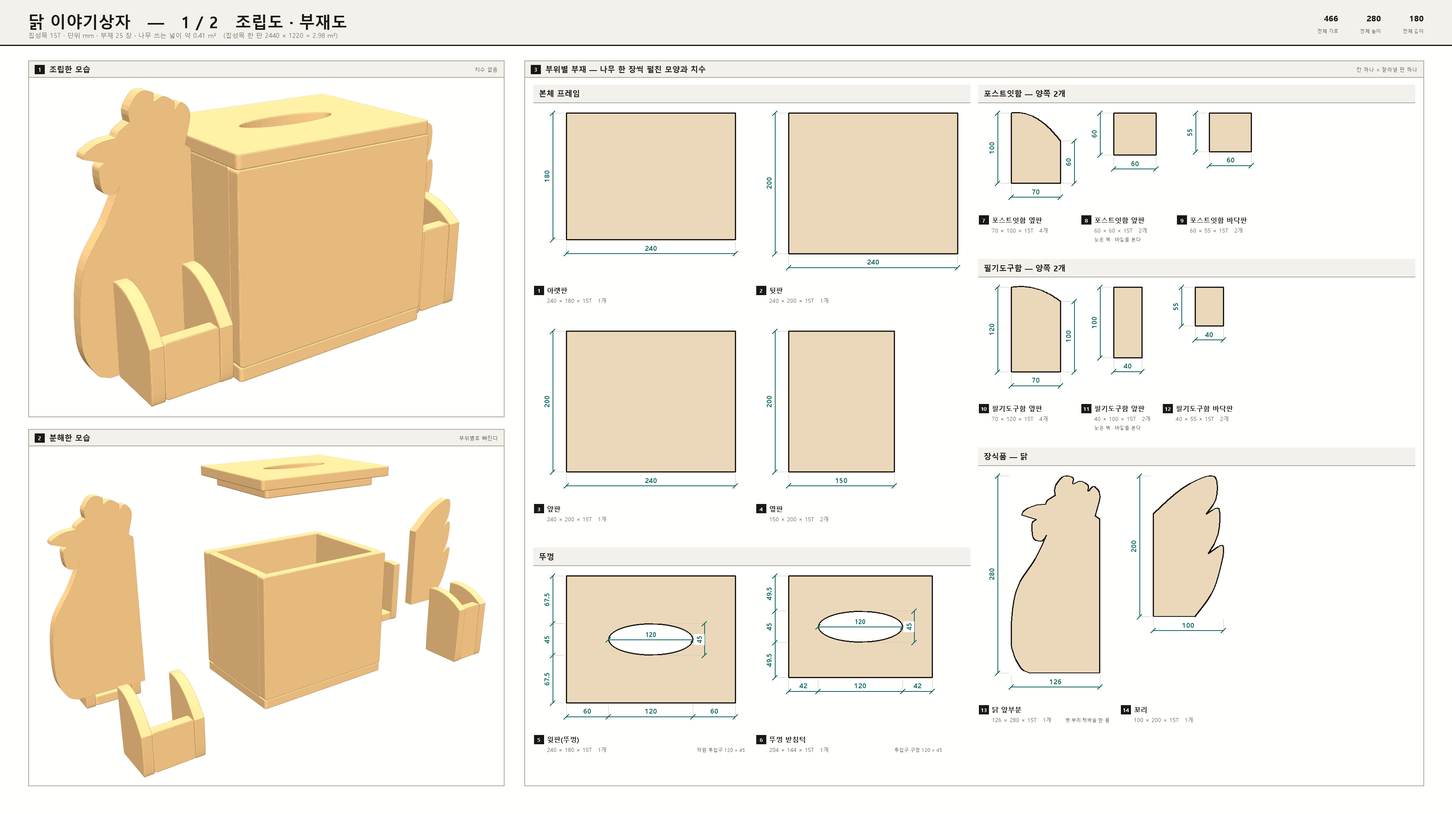
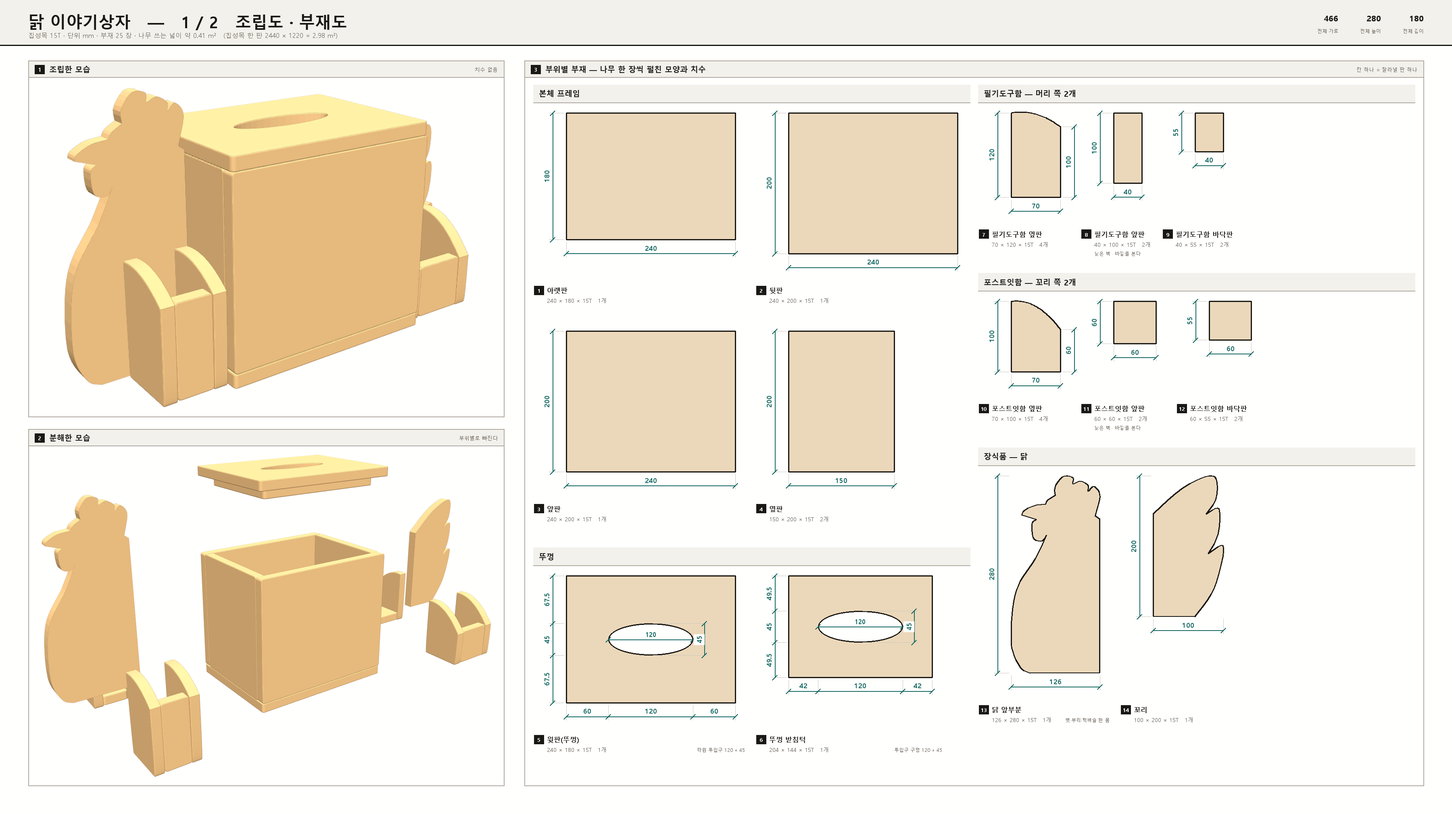
Add files via upload

diff --git a/도면보기.html b/도면보기.html
@@ -124,7 +124,7 @@ var SHEETS = [
   {k:"b1", t:"이야기상자 · 1장 조립도 · 부재도",  f:"도면_B_닭이야기상자.png",         tab:"이야기상자 1장"},
   {k:"b2", t:"이야기상자 · 2장 여섯 방향 치수도", f:"도면_B_닭이야기상자_6면치수.png", tab:"이야기상자 2장"}
 ];
-var DIM_DATA = {"a1":{"w":3600,"h":2398,"nums":[{"x":1716.0,"y":508.1,"r":0,"fs":17,"bw":40,"bh":24,"a":300.0,"b":0},{"x":1356.1,"y":384.0,"r":-90,"fs":17,"bw":27,"bh":38,"a":130.0,"b":-2},{"x":2472.0,"y":508.1,"r":0,"fs":17,"bw":40,"bh":24,"a":300.0,"b":0},{"x":2112.1,"y":384.0,"r":-90,"fs":17,"bw":27,"bh":38,"a":130.0,"b":-2},{"x":3020.0,"y":705.7,"r":0,"fs":17,"bw":40,"bh":24,"a":130.0,"b":-2},{"x":2868.1,"y":482.8,"r":-90,"fs":17,"bw":27,"bh":38,"a":225.0,"b":-2},{"x":1684.8,"y":1105.7,"r":0,"fs":17,"bw":40,"bh":24,"a":300.0,"b":-2},{"x":1356.1,"y":981.6,"r":-90,"fs":17,"bw":27,"bh":38,"a":130.0,"b":-2},{"x":2409.6,"y":1365.7,"r":0,"fs":17,"bw":40,"bh":24,"a":300.0,"b":0},{"x":2049.7,"y":1111.6,"r":-90,"fs":17,"bw":27,"bh":38,"a":225.0,"b":0},{"x":3165.6,"y":1144.1,"r":0,"fs":16,"bw":37,"bh":23,"a":300.0,"b":-2},{"x":2905.7,"y":1220.8,"r":-90,"fs":16,"bw":26,"bh":26,"a":112.5,"b":-1.5},{"x":3165.6,"y":925.7,"r":0,"fs":16,"bw":37,"bh":23,"a":300.0,"b":-2},{"x":2905.7,"y":1002.4,"r":-90,"fs":16,"bw":26,"bh":26,"a":112.5,"b":-1.5},{"x":2869.2,"y":1396.9,"r":0,"fs":17,"bw":30,"bh":24,"a":0.0,"b":1},{"x":3165.6,"y":1365.7,"r":0,"fs":17,"bw":40,"bh":24,"a":300.0,"b":-2},{"x":3462.0,"y":1396.9,"r":0,"fs":17,"bw":30,"bh":24,"a":0.0,"b":1},{"x":2802.3,"y":1330.0,"r":-90,"fs":17,"bw":27,"bh":28,"a":0.0,"b":1},{"x":2805.7,"y":1220.8,"r":-90,"fs":17,"bw":27,"bh":28,"a":112.5,"b":-1.5},{"x":2802.3,"y":1111.6,"r":-90,"fs":17,"bw":27,"bh":28,"a":0.0,"b":1.0},{"x":2805.7,"y":1002.4,"r":-90,"fs":17,"bw":27,"bh":28,"a":112.5,"b":-1.5},{"x":2802.3,"y":893.2,"r":-90,"fs":17,"bw":27,"bh":28,"a":0.0,"b":1.0},{"x":1680.6,"y":1802.5,"r":0,"fs":17,"bw":40,"bh":24,"a":296.0,"b":-2},{"x":1356.1,"y":1693.0,"r":-90,"fs":17,"bw":27,"bh":28,"a":108.5,"b":-1.5},{"x":2365.9,"y":1790.1,"r":0,"fs":17,"bw":40,"bh":24,"a":296.0,"b":-2},{"x":2041.3,"y":1686.8,"r":-90,"fs":17,"bw":27,"bh":28,"a":110.0,"b":-2},{"x":2857.8,"y":1771.3,"r":0,"fs":17,"bw":30,"bh":24,"a":110.0,"b":-2},{"x":2726.6,"y":1677.4,"r":-90,"fs":17,"bw":27,"bh":28,"a":108.5,"b":-2.5},{"x":1649.4,"y":2142.2,"r":0,"fs":17,"bw":40,"bh":24,"a":296.0,"b":-4},{"x":1356.1,"y":2048.3,"r":-90,"fs":17,"bw":27,"bh":28,"a":108.5,"b":-2.5},{"x":2089.3,"y":2027.8,"r":0,"fs":17,"bw":30,"bh":24,"a":60.0,"b":0},{"x":1975.5,"y":1991.1,"r":-90,"fs":17,"bw":27,"bh":28,"a":16.0,"b":0}],"texts":[{"x":70,"y":84,"fs":16,"an":"start","bg":"#F3F1EC","bw":775,"bh":24,"col":"ink2","dec":2,"tpl":"집성목 {T}T · 단위 mm · 부재 18 장 · 나무 쓰는 넓이 약 {0} m²   (집성목 한 판 2440 × 1220 = 2.98 m²)","v":[[0.542,-0.009]]},{"x":1356,"y":802,"fs":14,"an":"start","bw":156,"bh":21,"col":"ink2","tpl":"{0} × {1} × {T}T   1개","v":[[300.0,0],[130.0,-2]]},{"x":2112,"y":802,"fs":14,"an":"start","bw":156,"bh":21,"col":"ink2","tpl":"{0} × {1} × {T}T   1개","v":[[300.0,0],[130.0,-2]]},{"x":2868,"y":802,"fs":14,"an":"start","bw":156,"bh":21,"col":"ink2","tpl":"{0} × {1} × {T}T   2개","v":[[130.0,-2],[225.0,-2]]},{"x":1356,"y":1462,"fs":14,"an":"start","bw":156,"bh":21,"col":"ink2","tpl":"{0} × {1} × {T}T   1개","v":[[300.0,-2],[130.0,-2]]},{"x":2050,"y":1462,"fs":14,"an":"start","bw":156,"bh":21,"col":"ink2","tpl":"{0} × {1} × {T}T   1개","v":[[300.0,0],[225.0,0]]},{"x":2806,"y":1462,"fs":14,"an":"start","bw":156,"bh":21,"col":"ink2","tpl":"{0} × {1} × {T}T   1개","v":[[300.0,0],[225.0,0]]},{"x":1356,"y":1898,"fs":14,"an":"start","bw":148,"bh":21,"col":"ink2","tpl":"{0} × {1} × {T}T   2개","v":[[296.0,-2],[108.5,-1.5]]},{"x":2041,"y":1898,"fs":14,"an":"start","bw":148,"bh":21,"col":"ink2","tpl":"{0} × {1} × {T}T   2개","v":[[296.0,-2],[110.0,-2]]},{"x":2727,"y":1898,"fs":14,"an":"start","bw":140,"bh":21,"col":"ink2","tpl":"{0} × {1} × {T}T   4개","v":[[110.0,-2],[108.5,-2.5]]},{"x":1356,"y":2238,"fs":14,"an":"start","bw":148,"bh":21,"col":"ink2","tpl":"{0} × {1} × {T}T   2개","v":[[296.0,-4],[108.5,-2.5]]},{"x":1979,"y":2238,"fs":14,"an":"start","bw":140,"bh":21,"col":"ink2","tpl":"{0} × {1} × {T}T   1개","v":[[60.0,0],[16.0,0]]}]},"a2":{"w":3600,"h":2394,"nums":[{"x":770.8,"y":663.4,"r":0,"fs":18,"bw":40,"bh":26,"a":300.0,"b":-2.0},{"x":310.5,"y":808.0,"r":-90,"fs":18,"bw":28,"bh":28,"a":112.5,"b":-1.5},{"x":770.8,"y":290.5,"r":0,"fs":18,"bw":40,"bh":26,"a":300.0,"b":-2.0},{"x":310.5,"y":435.1,"r":-90,"fs":18,"bw":28,"bh":28,"a":112.5,"b":-1.5},{"x":264.6,"y":1055.5,"r":0,"fs":19,"bw":32,"bh":27,"a":0.0,"b":1.0},{"x":770.8,"y":1055.5,"r":0,"fs":19,"bw":43,"bh":27,"a":300.0,"b":-2.0},{"x":1276.9,"y":1055.5,"r":0,"fs":19,"bw":32,"bh":27,"a":0.0,"b":1.0},{"x":451.1,"y":1119.5,"r":0,"fs":19,"bw":43,"bh":27,"a":120.0,"b":0.0},{"x":770.8,"y":1119.5,"r":0,"fs":19,"bw":32,"bh":27,"a":60.0,"b":0.0},{"x":1090.4,"y":1119.5,"r":0,"fs":19,"bw":43,"bh":27,"a":120.0,"b":0.0},{"x":770.8,"y":1183.5,"r":0,"fs":19,"bw":43,"bh":27,"a":300.0,"b":0.0},{"x":172.4,"y":994.5,"r":-90,"fs":19,"bw":29,"bh":30,"a":0.0,"b":1.0},{"x":172.4,"y":808.0,"r":-90,"fs":19,"bw":29,"bh":30,"a":112.5,"b":-1.5},{"x":172.4,"y":621.6,"r":-90,"fs":19,"bw":29,"bh":30,"a":0.0,"b":1.0},{"x":172.4,"y":435.1,"r":-90,"fs":19,"bw":29,"bh":30,"a":112.5,"b":-1.5},{"x":172.4,"y":248.6,"r":-90,"fs":19,"bw":29,"bh":30,"a":0.0,"b":1.0},{"x":104.4,"y":621.6,"r":-90,"fs":19,"bw":29,"bh":41,"a":225.0,"b":0.0},{"x":1337.9,"y":928.8,"r":-90,"fs":19,"bw":29,"bh":30,"a":48.25,"b":0.25},{"x":1337.9,"y":808.0,"r":-90,"fs":19,"bw":29,"bh":30,"a":16.0,"b":0.0},{"x":1638.1,"y":1055.5,"r":0,"fs":19,"bw":32,"bh":27,"a":0.0,"b":1.0},{"x":1842.4,"y":1055.5,"r":0,"fs":19,"bw":43,"bh":27,"a":130.0,"b":-2.0},{"x":2046.6,"y":1055.5,"r":0,"fs":19,"bw":32,"bh":27,"a":0.0,"b":1.0},{"x":1842.4,"y":1119.5,"r":0,"fs":19,"bw":43,"bh":27,"a":130.0,"b":0.0},{"x":1869.0,"y":1183.5,"r":0,"fs":19,"bw":43,"bh":27,"a":130.0,"b":1.0},{"x":1545.9,"y":994.5,"r":-90,"fs":19,"bw":29,"bh":30,"a":0.0,"b":1.0},{"x":1545.9,"y":808.0,"r":-90,"fs":19,"bw":29,"bh":30,"a":112.5,"b":-1.5},{"x":1545.9,"y":621.6,"r":-90,"fs":19,"bw":29,"bh":30,"a":0.0,"b":1.0},{"x":1545.9,"y":435.1,"r":-90,"fs":19,"bw":29,"bh":30,"a":112.5,"b":-1.5},{"x":1545.9,"y":248.6,"r":-90,"fs":19,"bw":29,"bh":30,"a":0.0,"b":1.0},{"x":1477.9,"y":621.6,"r":-90,"fs":19,"bw":29,"bh":41,"a":225.0,"b":0.0},{"x":2160.9,"y":928.8,"r":-90,"fs":19,"bw":29,"bh":30,"a":48.25,"b":0.25},{"x":2160.9,"y":808.0,"r":-90,"fs":19,"bw":29,"bh":30,"a":16.0,"b":0.0},{"x":2647.6,"y":945.5,"r":0,"fs":19,"bw":43,"bh":27,"a":120.0,"b":0.0},{"x":2967.2,"y":945.5,"r":0,"fs":19,"bw":32,"bh":27,"a":60.0,"b":0.0},{"x":3286.9,"y":945.5,"r":0,"fs":19,"bw":43,"bh":27,"a":120.0,"b":0.0},{"x":2967.2,"y":1009.5,"r":0,"fs":19,"bw":43,"bh":27,"a":300.0,"b":0.0},{"x":2368.9,"y":422.7,"r":-90,"fs":19,"bw":29,"bh":30,"a":0.0,"b":1.0},{"x":2368.9,"y":626.9,"r":-90,"fs":19,"bw":29,"bh":41,"a":130.0,"b":-2.0},{"x":2368.9,"y":831.1,"r":-90,"fs":19,"bw":29,"bh":30,"a":0.0,"b":1.0},{"x":2300.9,"y":653.6,"r":-90,"fs":19,"bw":29,"bh":41,"a":130.0,"b":1.0},{"x":771.8,"y":2226.7,"r":0,"fs":19,"bw":43,"bh":27,"a":300.0,"b":0.0},{"x":173.4,"y":1792.7,"r":-90,"fs":19,"bw":29,"bh":41,"a":225.0,"b":0.0},{"x":2134.9,"y":2194.7,"r":0,"fs":19,"bw":32,"bh":27,"a":0.0,"b":1.0},{"x":1930.6,"y":2194.7,"r":0,"fs":19,"bw":43,"bh":27,"a":130.0,"b":-2.0},{"x":1726.4,"y":2194.7,"r":0,"fs":19,"bw":32,"bh":27,"a":0.0,"b":1.0},{"x":1904.0,"y":2258.7,"r":0,"fs":19,"bw":43,"bh":27,"a":130.0,"b":1.0},{"x":1580.9,"y":2133.6,"r":-90,"fs":19,"bw":29,"bh":30,"a":0.0,"b":1.0},{"x":1580.9,"y":1947.2,"r":-90,"fs":19,"bw":29,"bh":30,"a":112.5,"b":-1.5},{"x":1580.9,"y":1760.7,"r":-90,"fs":19,"bw":29,"bh":30,"a":0.0,"b":1.0},{"x":1580.9,"y":1574.2,"r":-90,"fs":19,"bw":29,"bh":30,"a":112.5,"b":-1.5},{"x":1580.9,"y":1387.8,"r":-90,"fs":19,"bw":29,"bh":30,"a":0.0,"b":1.0},{"x":1512.9,"y":1760.7,"r":-90,"fs":19,"bw":29,"bh":41,"a":225.0,"b":0.0},{"x":2967.2,"y":2084.6,"r":0,"fs":19,"bw":43,"bh":27,"a":300.0,"b":0.0},{"x":2368.9,"y":2023.6,"r":-90,"fs":19,"bw":29,"bh":30,"a":0.0,"b":1.0},{"x":2368.9,"y":1819.3,"r":-90,"fs":19,"bw":29,"bh":41,"a":130.0,"b":-2.0},{"x":2368.9,"y":1615.1,"r":-90,"fs":19,"bw":29,"bh":30,"a":0.0,"b":1.0},{"x":2300.9,"y":1819.3,"r":-90,"fs":19,"bw":29,"bh":41,"a":130.0,"b":0.0}],"texts":[]},"b1":{"w":3600,"h":2019,"nums":[{"x":1613.6,"y":614.5,"r":0,"fs":17,"bw":40,"bh":24,"a":240.0,"b":0},{"x":1356.1,"y":437.2,"r":-90,"fs":17,"bw":27,"bh":38,"a":180.0,"b":0},{"x":2164.9,"y":649.5,"r":0,"fs":17,"bw":40,"bh":24,"a":240.0,"b":0},{"x":1907.3,"y":454.7,"r":-90,"fs":17,"bw":27,"bh":38,"a":230.0,"b":-2},{"x":1613.6,"y":1190.9,"r":0,"fs":17,"bw":40,"bh":24,"a":240.0,"b":0},{"x":1356.1,"y":996.1,"r":-90,"fs":17,"bw":27,"bh":38,"a":230.0,"b":-2},{"x":2086.3,"y":1190.9,"r":0,"fs":17,"bw":40,"bh":24,"a":180.0,"b":-2},{"x":1907.3,"y":996.1,"r":-90,"fs":17,"bw":27,"bh":38,"a":230.0,"b":-2},{"x":1613.6,"y":1572.9,"r":0,"fs":16,"bw":37,"bh":23,"a":120.0,"b":0.0},{"x":1733.3,"y":1586.0,"r":-90,"fs":16,"bw":26,"bh":26,"a":45.0,"b":0.0},{"x":1456.4,"y":1763.3,"r":0,"fs":17,"bw":30,"bh":24,"a":60.0,"b":0.0},{"x":1613.6,"y":1763.3,"r":0,"fs":17,"bw":40,"bh":24,"a":120.0,"b":0.0},{"x":1770.9,"y":1763.3,"r":0,"fs":17,"bw":30,"bh":24,"a":60.0,"b":0.0},{"x":1356.1,"y":1684.3,"r":-90,"fs":17,"bw":27,"bh":42,"a":67.5,"b":0.0},{"x":1356.1,"y":1586.0,"r":-90,"fs":17,"bw":27,"bh":28,"a":45.0,"b":0.0},{"x":1356.1,"y":1487.8,"r":-90,"fs":17,"bw":27,"bh":42,"a":67.5,"b":0.0},{"x":2133.5,"y":1541.5,"r":0,"fs":16,"bw":37,"bh":23,"a":120.0,"b":0.0},{"x":2253.2,"y":1554.6,"r":-90,"fs":16,"bw":26,"bh":26,"a":45.0,"b":0.0},{"x":1992.0,"y":1700.4,"r":0,"fs":17,"bw":30,"bh":24,"a":57.0,"b":-1.0},{"x":2133.5,"y":1700.4,"r":0,"fs":17,"bw":40,"bh":24,"a":120.0,"b":0.0},{"x":2275.0,"y":1700.4,"r":0,"fs":17,"bw":30,"bh":24,"a":57.0,"b":-1.0},{"x":1907.3,"y":1637.1,"r":-90,"fs":17,"bw":27,"bh":42,"a":64.5,"b":-1.0},{"x":1907.3,"y":1554.6,"r":-90,"fs":17,"bw":27,"bh":28,"a":45.0,"b":0.0},{"x":1907.3,"y":1472.0,"r":-90,"fs":17,"bw":27,"bh":42,"a":64.5,"b":-1.0},{"x":2568.1,"y":474.8,"r":0,"fs":17,"bw":30,"bh":24,"a":70.0,"b":0},{"x":2459.1,"y":367.3,"r":-90,"fs":17,"bw":27,"bh":38,"a":100.0,"b":0},{"x":2649.3,"y":402.3,"r":-90,"fs":17,"bw":27,"bh":28,"a":60.0,"b":0},{"x":2813.7,"y":404.9,"r":0,"fs":17,"bw":30,"bh":24,"a":60.0,"b":0},{"x":2713.3,"y":332.4,"r":-90,"fs":17,"bw":27,"bh":28,"a":60.0,"b":0},{"x":3050.5,"y":396.1,"r":0,"fs":17,"bw":30,"bh":24,"a":60.0,"b":0},{"x":2950.2,"y":328.0,"r":-90,"fs":17,"bw":27,"bh":28,"a":70.0,"b":-1},{"x":2568.1,"y":942.4,"r":0,"fs":17,"bw":30,"bh":24,"a":70.0,"b":0},{"x":2459.1,"y":817.5,"r":-90,"fs":17,"bw":27,"bh":38,"a":120.0,"b":0},{"x":2649.3,"y":835.0,"r":-90,"fs":17,"bw":27,"bh":38,"a":100.0,"b":0},{"x":2796.2,"y":907.5,"r":0,"fs":17,"bw":30,"bh":24,"a":40.0,"b":0},{"x":2713.3,"y":800.0,"r":-90,"fs":17,"bw":27,"bh":38,"a":100.0,"b":0},{"x":2998.1,"y":828.8,"r":0,"fs":17,"bw":30,"bh":24,"a":40.0,"b":0},{"x":2915.2,"y":760.7,"r":-90,"fs":17,"bw":27,"bh":28,"a":70.0,"b":-1},{"x":2617.1,"y":1689.6,"r":0,"fs":17,"bw":40,"bh":24,"a":126.0,"b":0},{"x":2459.1,"y":1424.9,"r":-90,"fs":17,"bw":27,"bh":38,"a":280.0,"b":0},{"x":2946.5,"y":1549.8,"r":0,"fs":17,"bw":40,"bh":24,"a":100.0,"b":0},{"x":2811.2,"y":1355.0,"r":-90,"fs":17,"bw":27,"bh":38,"a":200.0,"b":0}],"texts":[{"x":70,"y":84,"fs":16,"an":"start","bg":"#F3F1EC","bw":775,"bh":24,"col":"ink2","dec":2,"tpl":"집성목 {T}T · 단위 mm · 부재 25 장 · 나무 쓰는 넓이 약 {0} m²   (집성목 한 판 2440 × 1220 = 2.98 m²)","v":[[0.46,-0.003]]},{"x":1356,"y":745,"fs":14,"an":"start","bw":156,"bh":21,"col":"ink2","tpl":"{0} × {1} × {T}T   1개","v":[[240.0,0],[180.0,0]]},{"x":1907,"y":745,"fs":14,"an":"start","bw":156,"bh":21,"col":"ink2","tpl":"{0} × {1} × {T}T   1개","v":[[240.0,0],[230.0,-2]]},{"x":1356,"y":1287,"fs":14,"an":"start","bw":156,"bh":21,"col":"ink2","tpl":"{0} × {1} × {T}T   1개","v":[[240.0,0],[230.0,-2]]},{"x":1907,"y":1287,"fs":14,"an":"start","bw":156,"bh":21,"col":"ink2","tpl":"{0} × {1} × {T}T   2개","v":[[180.0,-2],[230.0,-2]]},{"x":1356,"y":1859,"fs":14,"an":"start","bw":156,"bh":21,"col":"ink2","tpl":"{0} × {1} × {T}T   1개","v":[[240.0,0],[180.0,0]]},{"x":1907,"y":1859,"fs":14,"an":"start","bw":156,"bh":21,"col":"ink2","tpl":"{0} × {1} × {T}T   1개","v":[[234.0,-2],[174.0,-2]]},{"x":2459,"y":571,"fs":14,"an":"start","bw":148,"bh":21,"col":"ink2","tpl":"{0} × {1} × {T}T   4개","v":[[70.0,0],[100.0,0]]},{"x":2713,"y":571,"fs":14,"an":"start","bw":140,"bh":21,"col":"ink2","tpl":"{0} × {1} × {T}T   2개","v":[[60.0,0],[60.0,0]]},{"x":2950,"y":571,"fs":14,"an":"start","bw":140,"bh":21,"col":"ink2","tpl":"{0} × {1} × {T}T   2개","v":[[60.0,0],[70.0,-1]]},{"x":2459,"y":1038,"fs":14,"an":"start","bw":148,"bh":21,"col":"ink2","tpl":"{0} × {1} × {T}T   4개","v":[[70.0,0],[120.0,0]]},{"x":2713,"y":1038,"fs":14,"an":"start","bw":148,"bh":21,"col":"ink2","tpl":"{0} × {1} × {T}T   2개","v":[[40.0,0],[100.0,0]]},{"x":2915,"y":1038,"fs":14,"an":"start","bw":140,"bh":21,"col":"ink2","tpl":"{0} × {1} × {T}T   2개","v":[[40.0,0],[70.0,-1]]},{"x":2459,"y":1785,"fs":14,"an":"start","bw":156,"bh":21,"col":"ink2","tpl":"{0} × {1} × {T}T   1개","v":[[126.0,0],[280.0,0]]},{"x":2811,"y":1785,"fs":14,"an":"start","bw":156,"bh":21,"col":"ink2","tpl":"{0} × {1} × {T}T   1개","v":[[100.0,0],[200.0,0]]}]},"b2":{"w":3600,"h":2066,"nums":[{"x":344.4,"y":923.7,"r":0,"fs":19,"bw":32,"bh":27,"a":66.0,"b":-2.0},{"x":478.8,"y":923.7,"r":0,"fs":19,"bw":32,"bh":27,"a":60.0,"b":2.0},{"x":830.7,"y":923.7,"r":0,"fs":19,"bw":43,"bh":27,"a":240.0,"b":0.0},{"x":1161.4,"y":923.7,"r":0,"fs":19,"bw":32,"bh":27,"a":40.0,"b":2.0},{"x":1268.0,"y":923.7,"r":0,"fs":19,"bw":32,"bh":27,"a":60.0,"b":-2.0},{"x":803.0,"y":987.7,"r":0,"fs":19,"bw":43,"bh":27,"a":466.0,"b":0.0},{"x":830.7,"y":226.4,"r":0,"fs":19,"bw":43,"bh":27,"a":240.0,"b":0.0},{"x":240.4,"y":782.6,"r":-90,"fs":19,"bw":29,"bh":41,"a":100.0,"b":0},{"x":172.4,"y":644.0,"r":-90,"fs":19,"bw":29,"bh":41,"a":230.0,"b":0.0},{"x":104.4,"y":590.6,"r":-90,"fs":19,"bw":29,"bh":41,"a":280.0,"b":0},{"x":1334.4,"y":761.3,"r":-90,"fs":19,"bw":29,"bh":41,"a":120.0,"b":0},{"x":1402.4,"y":676.0,"r":-90,"fs":19,"bw":29,"bh":41,"a":200.0,"b":0},{"x":1757.4,"y":891.6,"r":0,"fs":19,"bw":48,"bh":27,"a":20.0,"b":-0.5},{"x":1845.3,"y":856.7,"r":0,"fs":19,"bw":32,"bh":27,"a":70.0,"b":0.0},{"x":1936.0,"y":891.6,"r":0,"fs":19,"bw":32,"bh":27,"a":0.0,"b":1.0},{"x":2026.7,"y":856.7,"r":0,"fs":19,"bw":32,"bh":27,"a":70.0,"b":0.0},{"x":2114.6,"y":891.6,"r":0,"fs":19,"bw":48,"bh":27,"a":20.0,"b":-0.5},{"x":1760.0,"y":955.6,"r":0,"fs":19,"bw":32,"bh":27,"a":0.0,"b":1.0},{"x":1936.0,"y":920.7,"r":0,"fs":19,"bw":43,"bh":27,"a":180.0,"b":-2.0},{"x":2112.0,"y":955.6,"r":0,"fs":19,"bw":32,"bh":27,"a":0.0,"b":1.0},{"x":1936.0,"y":984.7,"r":0,"fs":19,"bw":43,"bh":27,"a":180.0,"b":0.0},{"x":1674.6,"y":806.3,"r":-90,"fs":19,"bw":29,"bh":30,"a":0.0,"b":1.0},{"x":1678.4,"y":577.0,"r":-90,"fs":19,"bw":29,"bh":41,"a":230.0,"b":-2.0},{"x":1674.6,"y":347.7,"r":-90,"fs":19,"bw":29,"bh":30,"a":0.0,"b":1.0},{"x":1610.4,"y":577.0,"r":-90,"fs":19,"bw":29,"bh":41,"a":230.0,"b":0.0},{"x":1542.4,"y":523.6,"r":-90,"fs":19,"bw":29,"bh":41,"a":280.0,"b":0},{"x":2162.4,"y":715.6,"r":-90,"fs":19,"bw":29,"bh":41,"a":100.0,"b":0},{"x":2960.7,"y":508.9,"r":0,"fs":18,"bw":40,"bh":26,"a":120.0,"b":0.0},{"x":3101.9,"y":523.6,"r":-90,"fs":18,"bw":28,"bh":28,"a":45.0,"b":0.0},{"x":2768.7,"y":750.0,"r":0,"fs":19,"bw":32,"bh":27,"a":60.0,"b":0.0},{"x":2960.7,"y":750.0,"r":0,"fs":19,"bw":43,"bh":27,"a":120.0,"b":0.0},{"x":3152.7,"y":750.0,"r":0,"fs":19,"bw":32,"bh":27,"a":60.0,"b":0.0},{"x":2570.4,"y":814.0,"r":0,"fs":19,"bw":43,"bh":27,"a":126.0,"b":0},{"x":2960.7,"y":814.0,"r":0,"fs":19,"bw":43,"bh":27,"a":240.0,"b":0.0},{"x":3323.3,"y":814.0,"r":0,"fs":19,"bw":43,"bh":27,"a":100.0,"b":0.0},{"x":2933.0,"y":878.0,"r":0,"fs":19,"bw":43,"bh":27,"a":466.0,"b":0.0},{"x":2370.4,"y":403.6,"r":-90,"fs":19,"bw":29,"bh":46,"a":67.5,"b":0.0},{"x":2370.4,"y":523.6,"r":-90,"fs":19,"bw":29,"bh":30,"a":45.0,"b":0.0},{"x":2370.4,"y":643.6,"r":-90,"fs":19,"bw":29,"bh":46,"a":67.5,"b":0.0},{"x":2302.4,"y":523.6,"r":-90,"fs":19,"bw":29,"bh":41,"a":180.0,"b":0.0},{"x":3499.4,"y":345.0,"r":-90,"fs":19,"bw":29,"bh":46,"a":20.0,"b":-0.5},{"x":3464.4,"y":433.0,"r":-90,"fs":19,"bw":29,"bh":30,"a":70.0,"b":0.0},{"x":3499.4,"y":523.6,"r":-90,"fs":19,"bw":29,"bh":30,"a":0.0,"b":1.0},{"x":3464.4,"y":614.3,"r":-90,"fs":19,"bw":29,"bh":30,"a":70.0,"b":0.0},{"x":3499.4,"y":702.3,"r":-90,"fs":19,"bw":29,"bh":46,"a":20.0,"b":-0.5},{"x":1227.6,"y":1867.0,"r":0,"fs":19,"bw":32,"bh":27,"a":66.0,"b":-2.0},{"x":1093.2,"y":1867.0,"r":0,"fs":19,"bw":32,"bh":27,"a":60.0,"b":2.0},{"x":741.3,"y":1867.0,"r":0,"fs":19,"bw":43,"bh":27,"a":240.0,"b":0.0},{"x":410.7,"y":1867.0,"r":0,"fs":19,"bw":32,"bh":27,"a":40.0,"b":2.0},{"x":304.0,"y":1867.0,"r":0,"fs":19,"bw":32,"bh":27,"a":60.0,"b":-2.0},{"x":769.0,"y":1931.0,"r":0,"fs":19,"bw":43,"bh":27,"a":466.0,"b":0.0},{"x":741.3,"y":1169.7,"r":0,"fs":19,"bw":43,"bh":27,"a":240.0,"b":0.0},{"x":206.4,"y":1704.5,"r":-90,"fs":19,"bw":29,"bh":41,"a":120.0,"b":0},{"x":138.4,"y":1619.2,"r":-90,"fs":19,"bw":29,"bh":41,"a":200.0,"b":0},{"x":1300.4,"y":1725.9,"r":-90,"fs":19,"bw":29,"bh":41,"a":100.0,"b":0},{"x":1368.4,"y":1533.9,"r":-90,"fs":19,"bw":29,"bh":41,"a":280.0,"b":0},{"x":2046.6,"y":1866.9,"r":0,"fs":19,"bw":48,"bh":27,"a":20.0,"b":-0.5},{"x":1958.7,"y":1832.0,"r":0,"fs":19,"bw":32,"bh":27,"a":70.0,"b":0.0},{"x":1868.0,"y":1866.9,"r":0,"fs":19,"bw":32,"bh":27,"a":0.0,"b":1.0},{"x":1777.3,"y":1832.0,"r":0,"fs":19,"bw":32,"bh":27,"a":70.0,"b":0.0},{"x":1689.4,"y":1866.9,"r":0,"fs":19,"bw":48,"bh":27,"a":20.0,"b":-0.5},{"x":1868.0,"y":1896.0,"r":0,"fs":19,"bw":43,"bh":27,"a":180.0,"b":0.0},{"x":1606.6,"y":1781.5,"r":-90,"fs":19,"bw":29,"bh":30,"a":0.0,"b":1.0},{"x":1610.4,"y":1552.2,"r":-90,"fs":19,"bw":29,"bh":41,"a":230.0,"b":-2.0},{"x":1606.6,"y":1322.9,"r":-90,"fs":19,"bw":29,"bh":30,"a":0.0,"b":1.0},{"x":1542.4,"y":1552.2,"r":-90,"fs":19,"bw":29,"bh":41,"a":230.0,"b":0.0},{"x":2094.4,"y":1669.5,"r":-90,"fs":19,"bw":29,"bh":41,"a":120.0,"b":0},{"x":2162.4,"y":1584.2,"r":-90,"fs":19,"bw":29,"bh":41,"a":200.0,"b":0},{"x":2536.4,"y":1725.3,"r":0,"fs":19,"bw":43,"bh":27,"a":126.0,"b":0},{"x":2926.7,"y":1725.3,"r":0,"fs":19,"bw":43,"bh":27,"a":240.0,"b":0.0},{"x":3289.3,"y":1725.3,"r":0,"fs":19,"bw":43,"bh":27,"a":100.0,"b":0.0},{"x":2899.0,"y":1789.3,"r":0,"fs":19,"bw":43,"bh":27,"a":466.0,"b":0.0},{"x":2336.4,"y":1498.9,"r":-90,"fs":19,"bw":29,"bh":41,"a":180.0,"b":0.0},{"x":3465.4,"y":1677.5,"r":-90,"fs":19,"bw":29,"bh":46,"a":20.0,"b":-0.5},{"x":3430.4,"y":1589.6,"r":-90,"fs":19,"bw":29,"bh":30,"a":70.0,"b":0.0},{"x":3465.4,"y":1498.9,"r":-90,"fs":19,"bw":29,"bh":30,"a":0.0,"b":1.0},{"x":3430.4,"y":1408.2,"r":-90,"fs":19,"bw":29,"bh":30,"a":70.0,"b":0.0},{"x":3465.4,"y":1320.3,"r":-90,"fs":19,"bw":29,"bh":46,"a":20.0,"b":-0.5}],"texts":[]}};
+var DIM_DATA = {"a1":{"w":3600,"h":2398,"nums":[{"x":1716.0,"y":508.1,"r":0,"fs":17,"bw":40,"bh":24,"a":300.0,"b":0},{"x":1356.1,"y":384.0,"r":-90,"fs":17,"bw":27,"bh":38,"a":130.0,"b":-2},{"x":2472.0,"y":508.1,"r":0,"fs":17,"bw":40,"bh":24,"a":300.0,"b":0},{"x":2112.1,"y":384.0,"r":-90,"fs":17,"bw":27,"bh":38,"a":130.0,"b":-2},{"x":3020.0,"y":705.7,"r":0,"fs":17,"bw":40,"bh":24,"a":130.0,"b":-2},{"x":2868.1,"y":482.8,"r":-90,"fs":17,"bw":27,"bh":38,"a":225.0,"b":-2},{"x":1684.8,"y":1105.7,"r":0,"fs":17,"bw":40,"bh":24,"a":300.0,"b":-2},{"x":1356.1,"y":981.6,"r":-90,"fs":17,"bw":27,"bh":38,"a":130.0,"b":-2},{"x":2409.6,"y":1365.7,"r":0,"fs":17,"bw":40,"bh":24,"a":300.0,"b":0},{"x":2049.7,"y":1111.6,"r":-90,"fs":17,"bw":27,"bh":38,"a":225.0,"b":0},{"x":3165.6,"y":1144.1,"r":0,"fs":16,"bw":37,"bh":23,"a":300.0,"b":-2},{"x":2905.7,"y":1220.8,"r":-90,"fs":16,"bw":26,"bh":26,"a":112.5,"b":-1.5},{"x":3165.6,"y":925.7,"r":0,"fs":16,"bw":37,"bh":23,"a":300.0,"b":-2},{"x":2905.7,"y":1002.4,"r":-90,"fs":16,"bw":26,"bh":26,"a":112.5,"b":-1.5},{"x":2869.2,"y":1396.9,"r":0,"fs":17,"bw":30,"bh":24,"a":0.0,"b":1},{"x":3165.6,"y":1365.7,"r":0,"fs":17,"bw":40,"bh":24,"a":300.0,"b":-2},{"x":3462.0,"y":1396.9,"r":0,"fs":17,"bw":30,"bh":24,"a":0.0,"b":1},{"x":2802.3,"y":1330.0,"r":-90,"fs":17,"bw":27,"bh":28,"a":0.0,"b":1},{"x":2805.7,"y":1220.8,"r":-90,"fs":17,"bw":27,"bh":28,"a":112.5,"b":-1.5},{"x":2802.3,"y":1111.6,"r":-90,"fs":17,"bw":27,"bh":28,"a":0.0,"b":1.0},{"x":2805.7,"y":1002.4,"r":-90,"fs":17,"bw":27,"bh":28,"a":112.5,"b":-1.5},{"x":2802.3,"y":893.2,"r":-90,"fs":17,"bw":27,"bh":28,"a":0.0,"b":1.0},{"x":1680.6,"y":1802.5,"r":0,"fs":17,"bw":40,"bh":24,"a":296.0,"b":-2},{"x":1356.1,"y":1693.0,"r":-90,"fs":17,"bw":27,"bh":28,"a":108.5,"b":-1.5},{"x":2365.9,"y":1790.1,"r":0,"fs":17,"bw":40,"bh":24,"a":296.0,"b":-2},{"x":2041.3,"y":1686.8,"r":-90,"fs":17,"bw":27,"bh":28,"a":110.0,"b":-2},{"x":2857.8,"y":1771.3,"r":0,"fs":17,"bw":30,"bh":24,"a":110.0,"b":-2},{"x":2726.6,"y":1677.4,"r":-90,"fs":17,"bw":27,"bh":28,"a":108.5,"b":-2.5},{"x":1649.4,"y":2142.2,"r":0,"fs":17,"bw":40,"bh":24,"a":296.0,"b":-4},{"x":1356.1,"y":2048.3,"r":-90,"fs":17,"bw":27,"bh":28,"a":108.5,"b":-2.5},{"x":2089.3,"y":2027.8,"r":0,"fs":17,"bw":30,"bh":24,"a":60.0,"b":0},{"x":1975.5,"y":1991.1,"r":-90,"fs":17,"bw":27,"bh":28,"a":16.0,"b":0}],"texts":[{"x":70,"y":84,"fs":16,"an":"start","bg":"#F3F1EC","bw":775,"bh":24,"col":"ink2","dec":2,"tpl":"집성목 {T}T · 단위 mm · 부재 18 장 · 나무 쓰는 넓이 약 {0} m²   (집성목 한 판 2440 × 1220 = 2.98 m²)","v":[[0.542,-0.009]]},{"x":1356,"y":802,"fs":14,"an":"start","bw":156,"bh":21,"col":"ink2","tpl":"{0} × {1} × {T}T   1개","v":[[300.0,0],[130.0,-2]]},{"x":2112,"y":802,"fs":14,"an":"start","bw":156,"bh":21,"col":"ink2","tpl":"{0} × {1} × {T}T   1개","v":[[300.0,0],[130.0,-2]]},{"x":2868,"y":802,"fs":14,"an":"start","bw":156,"bh":21,"col":"ink2","tpl":"{0} × {1} × {T}T   2개","v":[[130.0,-2],[225.0,-2]]},{"x":1356,"y":1462,"fs":14,"an":"start","bw":156,"bh":21,"col":"ink2","tpl":"{0} × {1} × {T}T   1개","v":[[300.0,-2],[130.0,-2]]},{"x":2050,"y":1462,"fs":14,"an":"start","bw":156,"bh":21,"col":"ink2","tpl":"{0} × {1} × {T}T   1개","v":[[300.0,0],[225.0,0]]},{"x":2806,"y":1462,"fs":14,"an":"start","bw":156,"bh":21,"col":"ink2","tpl":"{0} × {1} × {T}T   1개","v":[[300.0,0],[225.0,0]]},{"x":1356,"y":1898,"fs":14,"an":"start","bw":148,"bh":21,"col":"ink2","tpl":"{0} × {1} × {T}T   2개","v":[[296.0,-2],[108.5,-1.5]]},{"x":2041,"y":1898,"fs":14,"an":"start","bw":148,"bh":21,"col":"ink2","tpl":"{0} × {1} × {T}T   2개","v":[[296.0,-2],[110.0,-2]]},{"x":2727,"y":1898,"fs":14,"an":"start","bw":140,"bh":21,"col":"ink2","tpl":"{0} × {1} × {T}T   4개","v":[[110.0,-2],[108.5,-2.5]]},{"x":1356,"y":2238,"fs":14,"an":"start","bw":148,"bh":21,"col":"ink2","tpl":"{0} × {1} × {T}T   2개","v":[[296.0,-4],[108.5,-2.5]]},{"x":1979,"y":2238,"fs":14,"an":"start","bw":140,"bh":21,"col":"ink2","tpl":"{0} × {1} × {T}T   1개","v":[[60.0,0],[16.0,0]]}]},"a2":{"w":3600,"h":2394,"nums":[{"x":770.8,"y":663.4,"r":0,"fs":18,"bw":40,"bh":26,"a":300.0,"b":-2.0},{"x":310.5,"y":808.0,"r":-90,"fs":18,"bw":28,"bh":28,"a":112.5,"b":-1.5},{"x":770.8,"y":290.5,"r":0,"fs":18,"bw":40,"bh":26,"a":300.0,"b":-2.0},{"x":310.5,"y":435.1,"r":-90,"fs":18,"bw":28,"bh":28,"a":112.5,"b":-1.5},{"x":264.6,"y":1055.5,"r":0,"fs":19,"bw":32,"bh":27,"a":0.0,"b":1.0},{"x":770.8,"y":1055.5,"r":0,"fs":19,"bw":43,"bh":27,"a":300.0,"b":-2.0},{"x":1276.9,"y":1055.5,"r":0,"fs":19,"bw":32,"bh":27,"a":0.0,"b":1.0},{"x":451.1,"y":1119.5,"r":0,"fs":19,"bw":43,"bh":27,"a":120.0,"b":0.0},{"x":770.8,"y":1119.5,"r":0,"fs":19,"bw":32,"bh":27,"a":60.0,"b":0.0},{"x":1090.4,"y":1119.5,"r":0,"fs":19,"bw":43,"bh":27,"a":120.0,"b":0.0},{"x":770.8,"y":1183.5,"r":0,"fs":19,"bw":43,"bh":27,"a":300.0,"b":0.0},{"x":172.4,"y":994.5,"r":-90,"fs":19,"bw":29,"bh":30,"a":0.0,"b":1.0},{"x":172.4,"y":808.0,"r":-90,"fs":19,"bw":29,"bh":30,"a":112.5,"b":-1.5},{"x":172.4,"y":621.6,"r":-90,"fs":19,"bw":29,"bh":30,"a":0.0,"b":1.0},{"x":172.4,"y":435.1,"r":-90,"fs":19,"bw":29,"bh":30,"a":112.5,"b":-1.5},{"x":172.4,"y":248.6,"r":-90,"fs":19,"bw":29,"bh":30,"a":0.0,"b":1.0},{"x":104.4,"y":621.6,"r":-90,"fs":19,"bw":29,"bh":41,"a":225.0,"b":0.0},{"x":1337.9,"y":928.8,"r":-90,"fs":19,"bw":29,"bh":30,"a":48.25,"b":0.25},{"x":1337.9,"y":808.0,"r":-90,"fs":19,"bw":29,"bh":30,"a":16.0,"b":0.0},{"x":1638.1,"y":1055.5,"r":0,"fs":19,"bw":32,"bh":27,"a":0.0,"b":1.0},{"x":1842.4,"y":1055.5,"r":0,"fs":19,"bw":43,"bh":27,"a":130.0,"b":-2.0},{"x":2046.6,"y":1055.5,"r":0,"fs":19,"bw":32,"bh":27,"a":0.0,"b":1.0},{"x":1842.4,"y":1119.5,"r":0,"fs":19,"bw":43,"bh":27,"a":130.0,"b":0.0},{"x":1869.0,"y":1183.5,"r":0,"fs":19,"bw":43,"bh":27,"a":130.0,"b":1.0},{"x":1545.9,"y":994.5,"r":-90,"fs":19,"bw":29,"bh":30,"a":0.0,"b":1.0},{"x":1545.9,"y":808.0,"r":-90,"fs":19,"bw":29,"bh":30,"a":112.5,"b":-1.5},{"x":1545.9,"y":621.6,"r":-90,"fs":19,"bw":29,"bh":30,"a":0.0,"b":1.0},{"x":1545.9,"y":435.1,"r":-90,"fs":19,"bw":29,"bh":30,"a":112.5,"b":-1.5},{"x":1545.9,"y":248.6,"r":-90,"fs":19,"bw":29,"bh":30,"a":0.0,"b":1.0},{"x":1477.9,"y":621.6,"r":-90,"fs":19,"bw":29,"bh":41,"a":225.0,"b":0.0},{"x":2160.9,"y":928.8,"r":-90,"fs":19,"bw":29,"bh":30,"a":48.25,"b":0.25},{"x":2160.9,"y":808.0,"r":-90,"fs":19,"bw":29,"bh":30,"a":16.0,"b":0.0},{"x":2647.6,"y":945.5,"r":0,"fs":19,"bw":43,"bh":27,"a":120.0,"b":0.0},{"x":2967.2,"y":945.5,"r":0,"fs":19,"bw":32,"bh":27,"a":60.0,"b":0.0},{"x":3286.9,"y":945.5,"r":0,"fs":19,"bw":43,"bh":27,"a":120.0,"b":0.0},{"x":2967.2,"y":1009.5,"r":0,"fs":19,"bw":43,"bh":27,"a":300.0,"b":0.0},{"x":2368.9,"y":422.7,"r":-90,"fs":19,"bw":29,"bh":30,"a":0.0,"b":1.0},{"x":2368.9,"y":626.9,"r":-90,"fs":19,"bw":29,"bh":41,"a":130.0,"b":-2.0},{"x":2368.9,"y":831.1,"r":-90,"fs":19,"bw":29,"bh":30,"a":0.0,"b":1.0},{"x":2300.9,"y":653.6,"r":-90,"fs":19,"bw":29,"bh":41,"a":130.0,"b":1.0},{"x":771.8,"y":2226.7,"r":0,"fs":19,"bw":43,"bh":27,"a":300.0,"b":0.0},{"x":173.4,"y":1792.7,"r":-90,"fs":19,"bw":29,"bh":41,"a":225.0,"b":0.0},{"x":2134.9,"y":2194.7,"r":0,"fs":19,"bw":32,"bh":27,"a":0.0,"b":1.0},{"x":1930.6,"y":2194.7,"r":0,"fs":19,"bw":43,"bh":27,"a":130.0,"b":-2.0},{"x":1726.4,"y":2194.7,"r":0,"fs":19,"bw":32,"bh":27,"a":0.0,"b":1.0},{"x":1904.0,"y":2258.7,"r":0,"fs":19,"bw":43,"bh":27,"a":130.0,"b":1.0},{"x":1580.9,"y":2133.6,"r":-90,"fs":19,"bw":29,"bh":30,"a":0.0,"b":1.0},{"x":1580.9,"y":1947.2,"r":-90,"fs":19,"bw":29,"bh":30,"a":112.5,"b":-1.5},{"x":1580.9,"y":1760.7,"r":-90,"fs":19,"bw":29,"bh":30,"a":0.0,"b":1.0},{"x":1580.9,"y":1574.2,"r":-90,"fs":19,"bw":29,"bh":30,"a":112.5,"b":-1.5},{"x":1580.9,"y":1387.8,"r":-90,"fs":19,"bw":29,"bh":30,"a":0.0,"b":1.0},{"x":1512.9,"y":1760.7,"r":-90,"fs":19,"bw":29,"bh":41,"a":225.0,"b":0.0},{"x":2967.2,"y":2084.6,"r":0,"fs":19,"bw":43,"bh":27,"a":300.0,"b":0.0},{"x":2368.9,"y":2023.6,"r":-90,"fs":19,"bw":29,"bh":30,"a":0.0,"b":1.0},{"x":2368.9,"y":1819.3,"r":-90,"fs":19,"bw":29,"bh":41,"a":130.0,"b":-2.0},{"x":2368.9,"y":1615.1,"r":-90,"fs":19,"bw":29,"bh":30,"a":0.0,"b":1.0},{"x":2300.9,"y":1819.3,"r":-90,"fs":19,"bw":29,"bh":41,"a":130.0,"b":0.0}],"texts":[]},"b1":{"w":3600,"h":2019,"nums":[{"x":1613.6,"y":614.5,"r":0,"fs":17,"bw":40,"bh":24,"a":240.0,"b":0},{"x":1356.1,"y":437.2,"r":-90,"fs":17,"bw":27,"bh":38,"a":180.0,"b":0},{"x":2164.9,"y":649.5,"r":0,"fs":17,"bw":40,"bh":24,"a":240.0,"b":0},{"x":1907.3,"y":454.7,"r":-90,"fs":17,"bw":27,"bh":38,"a":230.0,"b":-2},{"x":1613.6,"y":1190.9,"r":0,"fs":17,"bw":40,"bh":24,"a":240.0,"b":0},{"x":1356.1,"y":996.1,"r":-90,"fs":17,"bw":27,"bh":38,"a":230.0,"b":-2},{"x":2086.3,"y":1190.9,"r":0,"fs":17,"bw":40,"bh":24,"a":180.0,"b":-2},{"x":1907.3,"y":996.1,"r":-90,"fs":17,"bw":27,"bh":38,"a":230.0,"b":-2},{"x":1613.6,"y":1572.9,"r":0,"fs":16,"bw":37,"bh":23,"a":120.0,"b":0.0},{"x":1733.3,"y":1586.0,"r":-90,"fs":16,"bw":26,"bh":26,"a":45.0,"b":0.0},{"x":1456.4,"y":1763.3,"r":0,"fs":17,"bw":30,"bh":24,"a":60.0,"b":0.0},{"x":1613.6,"y":1763.3,"r":0,"fs":17,"bw":40,"bh":24,"a":120.0,"b":0.0},{"x":1770.9,"y":1763.3,"r":0,"fs":17,"bw":30,"bh":24,"a":60.0,"b":0.0},{"x":1356.1,"y":1684.3,"r":-90,"fs":17,"bw":27,"bh":42,"a":67.5,"b":0.0},{"x":1356.1,"y":1586.0,"r":-90,"fs":17,"bw":27,"bh":28,"a":45.0,"b":0.0},{"x":1356.1,"y":1487.8,"r":-90,"fs":17,"bw":27,"bh":42,"a":67.5,"b":0.0},{"x":2133.5,"y":1541.5,"r":0,"fs":16,"bw":37,"bh":23,"a":120.0,"b":0.0},{"x":2253.2,"y":1554.6,"r":-90,"fs":16,"bw":26,"bh":26,"a":45.0,"b":0.0},{"x":1992.0,"y":1700.4,"r":0,"fs":17,"bw":30,"bh":24,"a":57.0,"b":-1.0},{"x":2133.5,"y":1700.4,"r":0,"fs":17,"bw":40,"bh":24,"a":120.0,"b":0.0},{"x":2275.0,"y":1700.4,"r":0,"fs":17,"bw":30,"bh":24,"a":57.0,"b":-1.0},{"x":1907.3,"y":1637.1,"r":-90,"fs":17,"bw":27,"bh":42,"a":64.5,"b":-1.0},{"x":1907.3,"y":1554.6,"r":-90,"fs":17,"bw":27,"bh":28,"a":45.0,"b":0.0},{"x":1907.3,"y":1472.0,"r":-90,"fs":17,"bw":27,"bh":42,"a":64.5,"b":-1.0},{"x":2568.1,"y":509.7,"r":0,"fs":17,"bw":30,"bh":24,"a":70.0,"b":0},{"x":2459.1,"y":384.8,"r":-90,"fs":17,"bw":27,"bh":38,"a":120.0,"b":0},{"x":2649.3,"y":402.3,"r":-90,"fs":17,"bw":27,"bh":38,"a":100.0,"b":0},{"x":2796.2,"y":474.8,"r":0,"fs":17,"bw":30,"bh":24,"a":40.0,"b":0},{"x":2713.3,"y":367.3,"r":-90,"fs":17,"bw":27,"bh":38,"a":100.0,"b":0},{"x":2998.1,"y":396.1,"r":0,"fs":17,"bw":30,"bh":24,"a":40.0,"b":0},{"x":2915.2,"y":328.0,"r":-90,"fs":17,"bw":27,"bh":28,"a":70.0,"b":-1},{"x":2568.1,"y":942.4,"r":0,"fs":17,"bw":30,"bh":24,"a":70.0,"b":0},{"x":2459.1,"y":835.0,"r":-90,"fs":17,"bw":27,"bh":38,"a":100.0,"b":0},{"x":2649.3,"y":869.9,"r":-90,"fs":17,"bw":27,"bh":28,"a":60.0,"b":0},{"x":2813.7,"y":872.5,"r":0,"fs":17,"bw":30,"bh":24,"a":60.0,"b":0},{"x":2713.3,"y":800.0,"r":-90,"fs":17,"bw":27,"bh":28,"a":60.0,"b":0},{"x":3050.5,"y":863.8,"r":0,"fs":17,"bw":30,"bh":24,"a":60.0,"b":0},{"x":2950.2,"y":795.7,"r":-90,"fs":17,"bw":27,"bh":28,"a":70.0,"b":-1},{"x":2617.1,"y":1689.6,"r":0,"fs":17,"bw":40,"bh":24,"a":126.0,"b":0},{"x":2459.1,"y":1424.9,"r":-90,"fs":17,"bw":27,"bh":38,"a":280.0,"b":0},{"x":2946.5,"y":1549.8,"r":0,"fs":17,"bw":40,"bh":24,"a":100.0,"b":0},{"x":2811.2,"y":1355.0,"r":-90,"fs":17,"bw":27,"bh":38,"a":200.0,"b":0}],"texts":[{"x":70,"y":84,"fs":16,"an":"start","bg":"#F3F1EC","bw":775,"bh":24,"col":"ink2","dec":2,"tpl":"집성목 {T}T · 단위 mm · 부재 25 장 · 나무 쓰는 넓이 약 {0} m²   (집성목 한 판 2440 × 1220 = 2.98 m²)","v":[[0.46,-0.003]]},{"x":1356,"y":745,"fs":14,"an":"start","bw":156,"bh":21,"col":"ink2","tpl":"{0} × {1} × {T}T   1개","v":[[240.0,0],[180.0,0]]},{"x":1907,"y":745,"fs":14,"an":"start","bw":156,"bh":21,"col":"ink2","tpl":"{0} × {1} × {T}T   1개","v":[[240.0,0],[230.0,-2]]},{"x":1356,"y":1287,"fs":14,"an":"start","bw":156,"bh":21,"col":"ink2","tpl":"{0} × {1} × {T}T   1개","v":[[240.0,0],[230.0,-2]]},{"x":1907,"y":1287,"fs":14,"an":"start","bw":156,"bh":21,"col":"ink2","tpl":"{0} × {1} × {T}T   2개","v":[[180.0,-2],[230.0,-2]]},{"x":1356,"y":1859,"fs":14,"an":"start","bw":156,"bh":21,"col":"ink2","tpl":"{0} × {1} × {T}T   1개","v":[[240.0,0],[180.0,0]]},{"x":1907,"y":1859,"fs":14,"an":"start","bw":156,"bh":21,"col":"ink2","tpl":"{0} × {1} × {T}T   1개","v":[[234.0,-2],[174.0,-2]]},{"x":2459,"y":606,"fs":14,"an":"start","bw":148,"bh":21,"col":"ink2","tpl":"{0} × {1} × {T}T   4개","v":[[70.0,0],[120.0,0]]},{"x":2713,"y":606,"fs":14,"an":"start","bw":148,"bh":21,"col":"ink2","tpl":"{0} × {1} × {T}T   2개","v":[[40.0,0],[100.0,0]]},{"x":2915,"y":606,"fs":14,"an":"start","bw":140,"bh":21,"col":"ink2","tpl":"{0} × {1} × {T}T   2개","v":[[40.0,0],[70.0,-1]]},{"x":2459,"y":1038,"fs":14,"an":"start","bw":148,"bh":21,"col":"ink2","tpl":"{0} × {1} × {T}T   4개","v":[[70.0,0],[100.0,0]]},{"x":2713,"y":1038,"fs":14,"an":"start","bw":140,"bh":21,"col":"ink2","tpl":"{0} × {1} × {T}T   2개","v":[[60.0,0],[60.0,0]]},{"x":2950,"y":1038,"fs":14,"an":"start","bw":140,"bh":21,"col":"ink2","tpl":"{0} × {1} × {T}T   2개","v":[[60.0,0],[70.0,-1]]},{"x":2459,"y":1785,"fs":14,"an":"start","bw":156,"bh":21,"col":"ink2","tpl":"{0} × {1} × {T}T   1개","v":[[126.0,0],[280.0,0]]},{"x":2811,"y":1785,"fs":14,"an":"start","bw":156,"bh":21,"col":"ink2","tpl":"{0} × {1} × {T}T   1개","v":[[100.0,0],[200.0,0]]}]},"b2":{"w":3600,"h":2066,"nums":[{"x":365.7,"y":923.7,"r":0,"fs":19,"bw":32,"bh":27,"a":86.0,"b":-2.0},{"x":500.1,"y":923.7,"r":0,"fs":19,"bw":32,"bh":27,"a":40.0,"b":2.0},{"x":830.7,"y":923.7,"r":0,"fs":19,"bw":43,"bh":27,"a":240.0,"b":0.0},{"x":1182.7,"y":923.7,"r":0,"fs":19,"bw":32,"bh":27,"a":60.0,"b":2.0},{"x":1289.4,"y":958.6,"r":0,"fs":19,"bw":32,"bh":27,"a":40.0,"b":-2.0},{"x":803.0,"y":987.7,"r":0,"fs":19,"bw":43,"bh":27,"a":466.0,"b":0.0},{"x":830.7,"y":226.4,"r":0,"fs":19,"bw":43,"bh":27,"a":240.0,"b":0.0},{"x":240.4,"y":761.3,"r":-90,"fs":19,"bw":29,"bh":41,"a":120.0,"b":0},{"x":172.4,"y":644.0,"r":-90,"fs":19,"bw":29,"bh":41,"a":230.0,"b":0.0},{"x":104.4,"y":590.6,"r":-90,"fs":19,"bw":29,"bh":41,"a":280.0,"b":0},{"x":1334.4,"y":782.6,"r":-90,"fs":19,"bw":29,"bh":41,"a":100.0,"b":0},{"x":1402.4,"y":676.0,"r":-90,"fs":19,"bw":29,"bh":41,"a":200.0,"b":0},{"x":1757.4,"y":891.6,"r":0,"fs":19,"bw":48,"bh":27,"a":20.0,"b":-0.5},{"x":1845.3,"y":856.7,"r":0,"fs":19,"bw":32,"bh":27,"a":70.0,"b":0.0},{"x":1936.0,"y":891.6,"r":0,"fs":19,"bw":32,"bh":27,"a":0.0,"b":1.0},{"x":2026.7,"y":856.7,"r":0,"fs":19,"bw":32,"bh":27,"a":70.0,"b":0.0},{"x":2114.6,"y":891.6,"r":0,"fs":19,"bw":48,"bh":27,"a":20.0,"b":-0.5},{"x":1760.0,"y":955.6,"r":0,"fs":19,"bw":32,"bh":27,"a":0.0,"b":1.0},{"x":1936.0,"y":920.7,"r":0,"fs":19,"bw":43,"bh":27,"a":180.0,"b":-2.0},{"x":2112.0,"y":955.6,"r":0,"fs":19,"bw":32,"bh":27,"a":0.0,"b":1.0},{"x":1936.0,"y":984.7,"r":0,"fs":19,"bw":43,"bh":27,"a":180.0,"b":0.0},{"x":1674.6,"y":806.3,"r":-90,"fs":19,"bw":29,"bh":30,"a":0.0,"b":1.0},{"x":1678.4,"y":577.0,"r":-90,"fs":19,"bw":29,"bh":41,"a":230.0,"b":-2.0},{"x":1674.6,"y":347.7,"r":-90,"fs":19,"bw":29,"bh":30,"a":0.0,"b":1.0},{"x":1610.4,"y":577.0,"r":-90,"fs":19,"bw":29,"bh":41,"a":230.0,"b":0.0},{"x":1542.4,"y":523.6,"r":-90,"fs":19,"bw":29,"bh":41,"a":280.0,"b":0},{"x":2162.4,"y":694.3,"r":-90,"fs":19,"bw":29,"bh":41,"a":120.0,"b":0},{"x":2960.7,"y":508.9,"r":0,"fs":18,"bw":40,"bh":26,"a":120.0,"b":0.0},{"x":3101.9,"y":523.6,"r":-90,"fs":18,"bw":28,"bh":28,"a":45.0,"b":0.0},{"x":2768.7,"y":750.0,"r":0,"fs":19,"bw":32,"bh":27,"a":60.0,"b":0.0},{"x":2960.7,"y":750.0,"r":0,"fs":19,"bw":43,"bh":27,"a":120.0,"b":0.0},{"x":3152.7,"y":750.0,"r":0,"fs":19,"bw":32,"bh":27,"a":60.0,"b":0.0},{"x":2570.4,"y":814.0,"r":0,"fs":19,"bw":43,"bh":27,"a":126.0,"b":0},{"x":2960.7,"y":814.0,"r":0,"fs":19,"bw":43,"bh":27,"a":240.0,"b":0.0},{"x":3323.3,"y":814.0,"r":0,"fs":19,"bw":43,"bh":27,"a":100.0,"b":0.0},{"x":2933.0,"y":878.0,"r":0,"fs":19,"bw":43,"bh":27,"a":466.0,"b":0.0},{"x":2370.4,"y":403.6,"r":-90,"fs":19,"bw":29,"bh":46,"a":67.5,"b":0.0},{"x":2370.4,"y":523.6,"r":-90,"fs":19,"bw":29,"bh":30,"a":45.0,"b":0.0},{"x":2370.4,"y":643.6,"r":-90,"fs":19,"bw":29,"bh":46,"a":67.5,"b":0.0},{"x":2302.4,"y":523.6,"r":-90,"fs":19,"bw":29,"bh":41,"a":180.0,"b":0.0},{"x":3499.4,"y":345.0,"r":-90,"fs":19,"bw":29,"bh":46,"a":20.0,"b":-0.5},{"x":3464.4,"y":433.0,"r":-90,"fs":19,"bw":29,"bh":30,"a":70.0,"b":0.0},{"x":3499.4,"y":523.6,"r":-90,"fs":19,"bw":29,"bh":30,"a":0.0,"b":1.0},{"x":3464.4,"y":614.3,"r":-90,"fs":19,"bw":29,"bh":30,"a":70.0,"b":0.0},{"x":3499.4,"y":702.3,"r":-90,"fs":19,"bw":29,"bh":46,"a":20.0,"b":-0.5},{"x":1206.3,"y":1867.0,"r":0,"fs":19,"bw":32,"bh":27,"a":86.0,"b":-2.0},{"x":1071.9,"y":1867.0,"r":0,"fs":19,"bw":32,"bh":27,"a":40.0,"b":2.0},{"x":741.3,"y":1867.0,"r":0,"fs":19,"bw":43,"bh":27,"a":240.0,"b":0.0},{"x":389.3,"y":1867.0,"r":0,"fs":19,"bw":32,"bh":27,"a":60.0,"b":2.0},{"x":282.7,"y":1901.9,"r":0,"fs":19,"bw":32,"bh":27,"a":40.0,"b":-2.0},{"x":769.0,"y":1931.0,"r":0,"fs":19,"bw":43,"bh":27,"a":466.0,"b":0.0},{"x":741.3,"y":1169.7,"r":0,"fs":19,"bw":43,"bh":27,"a":240.0,"b":0.0},{"x":206.4,"y":1725.9,"r":-90,"fs":19,"bw":29,"bh":41,"a":100.0,"b":0},{"x":138.4,"y":1619.2,"r":-90,"fs":19,"bw":29,"bh":41,"a":200.0,"b":0},{"x":1300.4,"y":1704.5,"r":-90,"fs":19,"bw":29,"bh":41,"a":120.0,"b":0},{"x":1368.4,"y":1533.9,"r":-90,"fs":19,"bw":29,"bh":41,"a":280.0,"b":0},{"x":2046.6,"y":1866.9,"r":0,"fs":19,"bw":48,"bh":27,"a":20.0,"b":-0.5},{"x":1958.7,"y":1832.0,"r":0,"fs":19,"bw":32,"bh":27,"a":70.0,"b":0.0},{"x":1868.0,"y":1866.9,"r":0,"fs":19,"bw":32,"bh":27,"a":0.0,"b":1.0},{"x":1777.3,"y":1832.0,"r":0,"fs":19,"bw":32,"bh":27,"a":70.0,"b":0.0},{"x":1689.4,"y":1866.9,"r":0,"fs":19,"bw":48,"bh":27,"a":20.0,"b":-0.5},{"x":1868.0,"y":1896.0,"r":0,"fs":19,"bw":43,"bh":27,"a":180.0,"b":0.0},{"x":1606.6,"y":1781.5,"r":-90,"fs":19,"bw":29,"bh":30,"a":0.0,"b":1.0},{"x":1610.4,"y":1552.2,"r":-90,"fs":19,"bw":29,"bh":41,"a":230.0,"b":-2.0},{"x":1606.6,"y":1322.9,"r":-90,"fs":19,"bw":29,"bh":30,"a":0.0,"b":1.0},{"x":1542.4,"y":1552.2,"r":-90,"fs":19,"bw":29,"bh":41,"a":230.0,"b":0.0},{"x":2094.4,"y":1690.9,"r":-90,"fs":19,"bw":29,"bh":41,"a":100.0,"b":0},{"x":2162.4,"y":1584.2,"r":-90,"fs":19,"bw":29,"bh":41,"a":200.0,"b":0},{"x":2536.4,"y":1725.3,"r":0,"fs":19,"bw":43,"bh":27,"a":126.0,"b":0},{"x":2926.7,"y":1725.3,"r":0,"fs":19,"bw":43,"bh":27,"a":240.0,"b":0.0},{"x":3289.3,"y":1725.3,"r":0,"fs":19,"bw":43,"bh":27,"a":100.0,"b":0.0},{"x":2899.0,"y":1789.3,"r":0,"fs":19,"bw":43,"bh":27,"a":466.0,"b":0.0},{"x":2336.4,"y":1498.9,"r":-90,"fs":19,"bw":29,"bh":41,"a":180.0,"b":0.0},{"x":3465.4,"y":1677.5,"r":-90,"fs":19,"bw":29,"bh":46,"a":20.0,"b":-0.5},{"x":3430.4,"y":1589.6,"r":-90,"fs":19,"bw":29,"bh":30,"a":70.0,"b":0.0},{"x":3465.4,"y":1498.9,"r":-90,"fs":19,"bw":29,"bh":30,"a":0.0,"b":1.0},{"x":3430.4,"y":1408.2,"r":-90,"fs":19,"bw":29,"bh":30,"a":70.0,"b":0.0},{"x":3465.4,"y":1320.3,"r":-90,"fs":19,"bw":29,"bh":46,"a":20.0,"b":-0.5}],"texts":[]}};
 
 var BASE = 15;                       /* 그림을 그린 두께 */
 var img=document.getElementById("img"), stage=document.getElementById("stage"),

diff --git a/index.html b/index.html
@@ -393,10 +393,10 @@ function modelB(){
        x:x0+T, y:0, z: flip ? z0+T : z0, w:inner, h:T, d:CD-T});
   }
   //      묶음               번호  x            안쪽 판쪽 바깥  z     이름          뒤집기
-  caddy("포스트잇함 (앞)",   7, -(60+2*T), 60, 100,  60, PZ+T, "포스트잇함", false);
-  caddy("포스트잇함 (뒤)",  20, -(60+2*T), 60, 100,  60, m,    "포스트잇함", true);
-  caddy("필기도구함 (앞)",  11,  W,        40, 120, 100, PZ+T, "필기도구함", false);
-  caddy("필기도구함 (뒤)",  24,  W,        40, 120, 100, m,    "필기도구함", true);
+  caddy("필기도구함 (앞)",  11, -(40+2*T), 40, 120, 100, PZ+T, "필기도구함", false);
+  caddy("필기도구함 (뒤)",  24, -(40+2*T), 40, 120, 100, m,    "필기도구함", true);
+  caddy("포스트잇함 (앞)",   7,  W,        60, 100,  60, PZ+T, "포스트잇함", false);
+  caddy("포스트잇함 (뒤)",  20,  W,        60, 100,  60, m,    "포스트잇함", true);
 
   /* 닭 앞부분 · 꼬리 : 직접 그린 도형 그대로. 함 둘 사이에 선다 */
   p({id:13,g:"닭 앞부분", n:"닭 앞부분", q:1,
@@ -407,10 +407,10 @@ function modelB(){
 
   return { key:"B", title:"닭 이야기상자", parts:P, W:W, H:H, D:D,
     dims:[["본체 가로",W],["본체 높이",H],["본체 깊이",D]],
-    span:[-126, Math.max(W+100, W+40+2*T)], top:280,
+    span:[-126, Math.max(W+100, W+60+2*T)], top:280,
     groups:{ "프레임":[0,0,0,0], "뚜껑":[0,1,0,125],
-             "포스트잇함 (앞)":[-1,0,0.5,150], "포스트잇함 (뒤)":[-1,0,-0.5,150],
-             "필기도구함 (앞)":[1,0,0.5,150],  "필기도구함 (뒤)":[1,0,-0.5,150],
+             "필기도구함 (앞)":[-1,0,0.5,150], "필기도구함 (뒤)":[-1,0,-0.5,150],
+             "포스트잇함 (앞)":[1,0,0.5,150],  "포스트잇함 (뒤)":[1,0,-0.5,150],
              "닭 앞부분":[-0.75,0.3,0,170], "꼬리":[0.75,0.3,0,170] },
     asks:
          "<p class='note'><b>볏·부리를 칠하나요?</b> 지금은 한 판이라 나무색 그대로입니다. 칠하면 손그림처럼 됩니다.</p>"+
